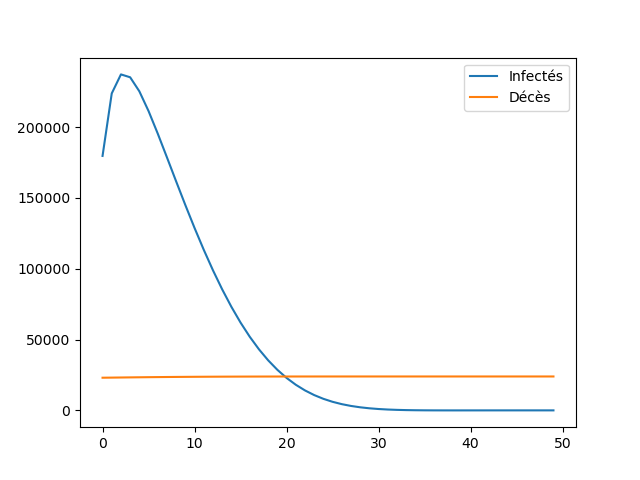
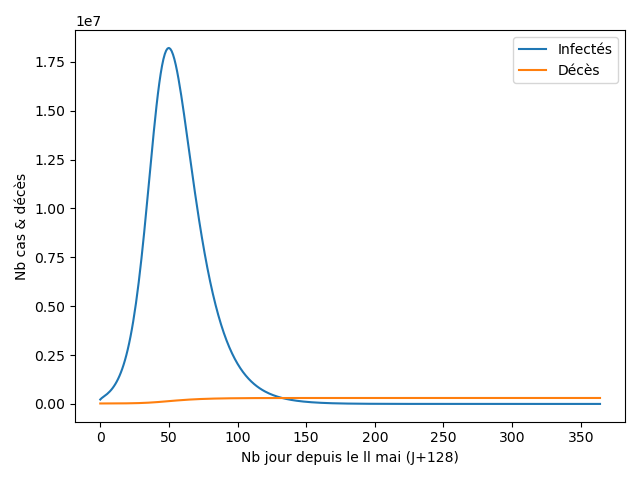
typing

diff --git a/scire.py b/scire.py
@@ -135,13 +135,14 @@ if __name__ == '__main__':
     DC128 = 23000
     R128 = 180000
     rrate = 0.1
+    r128 = 0.5
     C0 = ((DC128 / mu) - R128) / nbfrench * rrate
     I0 = C0 / notdetectedrate # Taux Infection
     S0 = 1 - I0 - C0  # Taux Sain
-    r0 = R0 * 0.5 * rrate
+    r0 = R0 * r128 * rrate
     fsummer = lambda x : -np.sin((x + 118 - 365 / 4 - 30) * 2 * np.pi / 365) * r0 / 1 # 1,2,4
     print(fsummer(np.arange(365)))
-    scire = SCIRE(S0, C0, I0, r0=R0 * rrate, v=v, lmbda=lmbda, mu=mu, dr=0.1, fs = fsummer) #0.1
+    scire = SCIRE(S0, C0, I0, r0=r0 * rrate, v=v, lmbda=lmbda, mu=mu, dr=0.1, fs = fsummer) #0.1
     scires = scire.compute(365)
     ctot = 1 - np.array([x.S for x in scires])
     c = np.array([x.C for x in scires])
